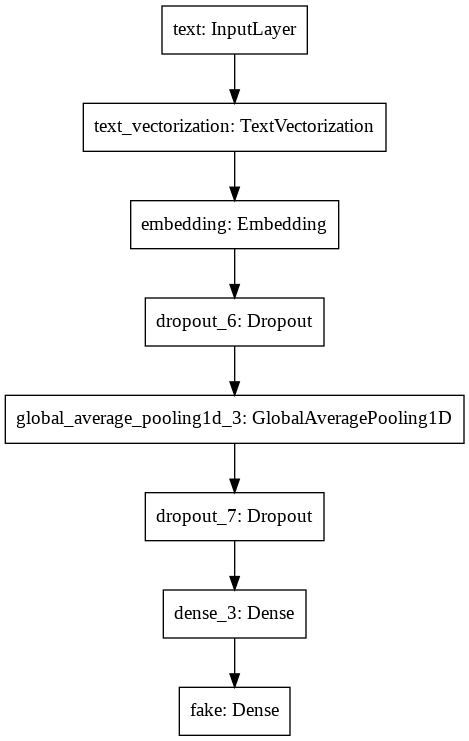
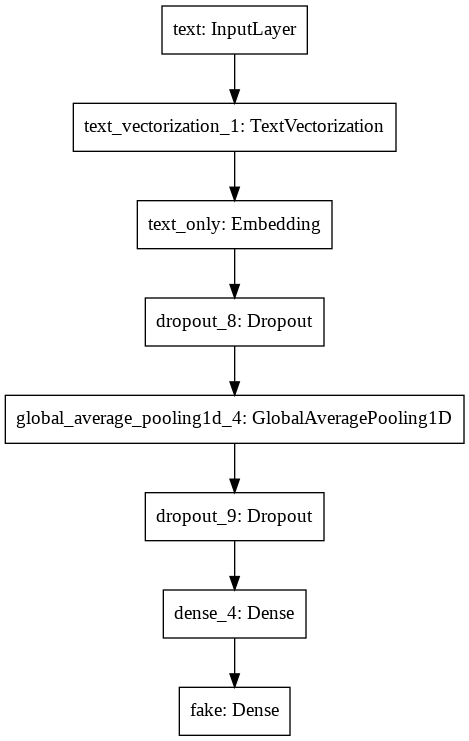
2

diff --git a/_posts/2021-05-18-Blog-Post-3.md b/_posts/2021-05-18-Blog-Post-3.md
@@ -348,7 +348,7 @@ First, create the layers and output parameter of the model, store the output par
 # layers for processing the title, pretty much the same as from our lecture
 # on text classification
 titles_features = vectorize_layer(titles_input)
-titles_features = layers.Embedding(size_vocabulary, 3, name = "embedding")(titles_features)
+titles_features = layers.Embedding(size_vocabulary, 3, name = "title_only")(titles_features)
 titles_features = layers.Dropout(0.2)(titles_features)
 titles_features = layers.GlobalAveragePooling1D()(titles_features)
 titles_features = layers.Dropout(0.2)(titles_features)
@@ -373,7 +373,7 @@ Here is the model summary:
 titles_model.summary()
 ```
 ```
-Model: "model_3"
+Model: "model_1"
 _________________________________________________________________
 Layer (type)                 Output Shape              Param #   
 =================================================================
@@ -381,15 +381,15 @@ title (InputLayer)           [(None, 1)]               0
 _________________________________________________________________
 text_vectorization_1 (TextVe (None, 500)               0         
 _________________________________________________________________
-embedding (Embedding)        (None, 500, 3)            6000      
+title_only_embedding (Embedd (None, 500, 3)            6000      
 _________________________________________________________________
-dropout_6 (Dropout)          (None, 500, 3)            0         
+dropout_4 (Dropout)          (None, 500, 3)            0         
 _________________________________________________________________
-global_average_pooling1d_3 ( (None, 3)                 0         
+global_average_pooling1d_2 ( (None, 3)                 0         
 _________________________________________________________________
-dropout_7 (Dropout)          (None, 3)                 0         
+dropout_5 (Dropout)          (None, 3)                 0         
 _________________________________________________________________
-dense_3 (Dense)              (None, 32)                128       
+dense_2 (Dense)              (None, 32)                128       
 _________________________________________________________________
 fake (Dense)                 (None, 2)                 66        
 =================================================================
@@ -514,7 +514,7 @@ First, create the layers and output parameter of the model, store the output par
 # layers for processing the text, pretty much the same as from our lecture
 # on text classification
 texts_features = vectorize_layer(texts_input)
-texts_features = layers.Embedding(size_vocabulary, 3, name = "text")(texts_features)
+texts_features = layers.Embedding(size_vocabulary, 3, name = "text_only")(texts_features)
 texts_features = layers.Dropout(0.2)(texts_features)
 texts_features = layers.GlobalAveragePooling1D()(texts_features)
 texts_features = layers.Dropout(0.2)(texts_features)
@@ -539,23 +539,23 @@ Here is the model summary:
 texts_model.summary()
 ```
 ```
-Model: "model_3"
+Model: "model_2"
 _________________________________________________________________
 Layer (type)                 Output Shape              Param #   
 =================================================================
 text (InputLayer)            [(None, 1)]               0         
 _________________________________________________________________
-text_vectorization (TextVect (None, 500)               0         
+text_vectorization_1 (TextVe (None, 500)               0         
 _________________________________________________________________
-embedding (Embedding)        (None, 500, 3)            6000      
+text_only (Embedding)        (None, 500, 3)            6000      
 _________________________________________________________________
-dropout_6 (Dropout)          (None, 500, 3)            0         
+dropout_8 (Dropout)          (None, 500, 3)            0         
 _________________________________________________________________
-global_average_pooling1d_3 ( (None, 3)                 0         
+global_average_pooling1d_4 ( (None, 3)                 0         
 _________________________________________________________________
-dropout_7 (Dropout)          (None, 3)                 0         
+dropout_9 (Dropout)          (None, 3)                 0         
 _________________________________________________________________
-dense_3 (Dense)              (None, 32)                128       
+dense_4 (Dense)              (None, 32)                128       
 _________________________________________________________________
 fake (Dense)                 (None, 2)                 66        
 =================================================================
@@ -572,6 +572,32 @@ And here is the model flow diagram:
 keras.utils.plot_model(texts_model)
 ```
 ![BP3_text_diagram.png]({{ site.baseurl }}/images/BP3_text_diagram.png)
+
+{::options parse_block_html="true" /}
+<div class="got-help">
+
+In the peers feedback, one of my peer mentioned that I did not change the name of embedding layer to specify the difference between *model_1* and *model_2*, before changing, my code for model_1 and model_2 are:
+
+```python
+# model 1
+titles_features = layers.Embedding(size_vocabulary, 3, name = "embedding")(titles_features)
+# model 2
+texts_features = layers.Embedding(size_vocabulary, 3, name = "embedding")(texts_features)
+```
+
+Therefore, I changed the two lines into:
+
+```python
+# model 1
+titles_features = layers.Embedding(size_vocabulary, 3, name = "title_only")(titles_features)
+# model 2
+texts_features = layers.Embedding(size_vocabulary, 3, name = "text_only")(texts_features)
+```
+
+and then change the corresponding model summary and flows diagram.
+
+</div>
+{::options parse_block_html="false" /}
 
 Now, compile and train the model with results showing after every epoch:
 
